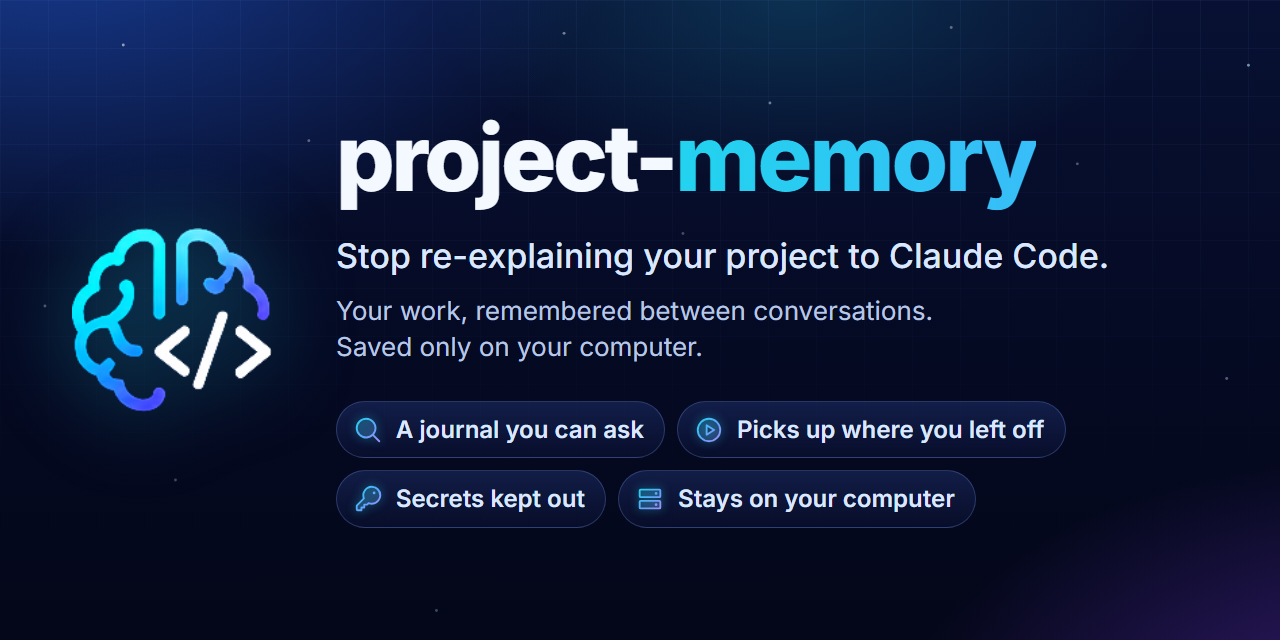
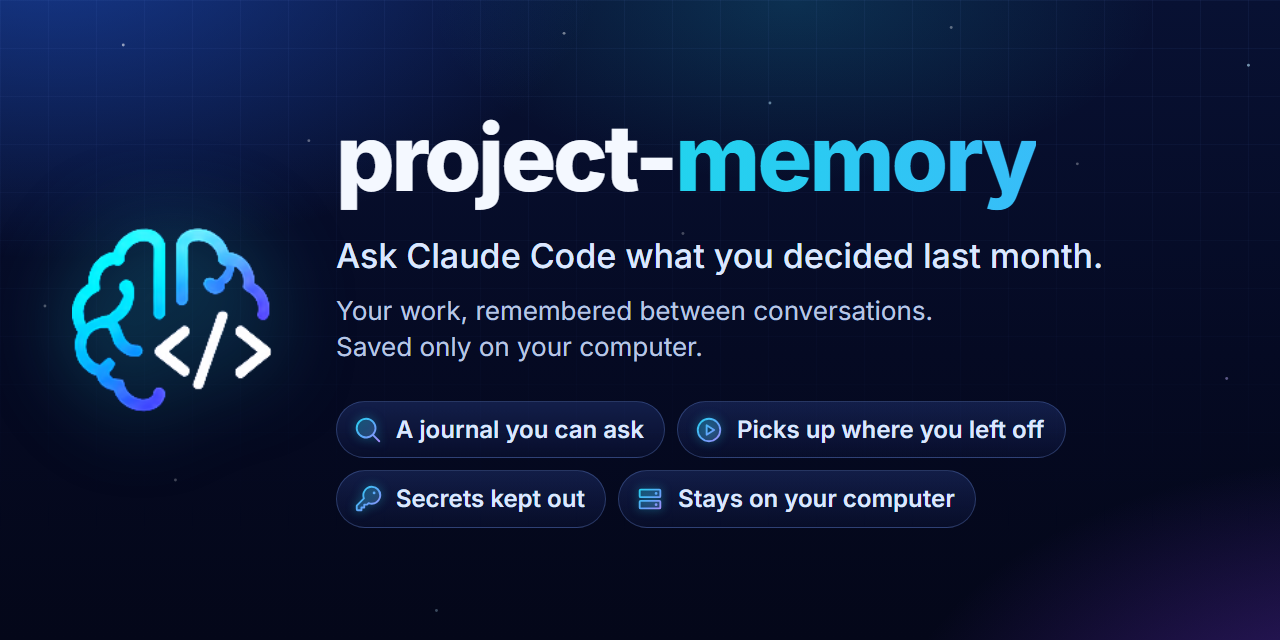
Project page: new headline "Ask Claude Code what you decided last month."
KIRE's pick (option 8 of 8). Also updates the page title, og:title,
og:image:alt and the social card image to the new line; bumps the
og:image URL to ?v=2 so share previews fetch the new card. Removes the
.nw rule, which only the old headline used. The closing line at the
bottom of the page keeps the old headline.

Changed region(s): [[0.25, 0.375, 0.875, 0.4375]]

diff --git a/index.html b/index.html
@@ -3,7 +3,7 @@
 <head>
 <meta charset="utf-8">
 <meta name="viewport" content="width=device-width, initial-scale=1">
-<title>project-memory: stop re-explaining your project to Claude Code</title>
+<title>project-memory: ask Claude Code what you decided last month</title>
 <meta name="description" content="A free plugin for Claude Code. After every reply it keeps a journal of your work and a note of where you stopped, so a new conversation starts where the last one ended. Secrets stay out, you choose what is saved, and what it saves stays on your computer.">
 <meta name="theme-color" content="#050A23">
 <meta name="color-scheme" content="dark">
@@ -11,13 +11,13 @@
 <link rel="canonical" href="https://zdraveski.github.io/project-memory/">
 <link rel="preload" href="fonts/inter.woff2" as="font" type="font/woff2" crossorigin>
 <meta property="og:type" content="website">
-<meta property="og:title" content="project-memory: stop re-explaining your project to Claude Code">
+<meta property="og:title" content="project-memory: ask Claude Code what you decided last month">
 <meta property="og:description" content="Your work, remembered between conversations. Saved only on your computer. A journal you can ask, a note of where you stopped, old versions of your notes, secrets kept out. Free, no account.">
 <meta property="og:url" content="https://zdraveski.github.io/project-memory/">
-<meta property="og:image" content="https://zdraveski.github.io/project-memory/social-card.png">
+<meta property="og:image" content="https://zdraveski.github.io/project-memory/social-card.png?v=2">
 <meta property="og:image:width" content="1280">
 <meta property="og:image:height" content="640">
-<meta property="og:image:alt" content="project-memory, with a brain logo: 'Stop re-explaining your project to Claude Code. Your work, remembered between conversations. Saved only on your computer.' Below it: 'A journal you can ask', 'Picks up where you left off', 'Secrets kept out' and 'Stays on your computer'.">
+<meta property="og:image:alt" content="project-memory, with a brain logo: 'Ask Claude Code what you decided last month. Your work, remembered between conversations. Saved only on your computer.' Below it: 'A journal you can ask', 'Picks up where you left off', 'Secrets kept out' and 'Stays on your computer'.">
 <meta name="twitter:card" content="summary_large_image">
 <script type="application/ld+json">
 {
@@ -170,7 +170,6 @@
   p { text-wrap: pretty; }
   .hero { display: flex; flex-direction: column; align-items: center; text-align: center; padding-top: 3.25rem; }
   h1 { font-size: clamp(2.3rem, 6vw, 5.25rem); line-height: 1; letter-spacing: -0.04em; max-width: 13em; margin: 0 auto 1.2rem; }
-  .nw { white-space: nowrap; }
   .tagline { font-size: 1.4rem; line-height: 1.45; font-weight: 600; color: var(--ink); max-width: 34rem; margin: 0 auto 0.5rem; }
   .lede { font-size: 1.1rem; line-height: 1.6; color: var(--body); max-width: 38rem; margin: 0 auto 1.75rem; }
   .actions { display: flex; flex-wrap: wrap; gap: 0.8rem; }
@@ -623,7 +622,7 @@
     <div class="wrap">
       <div class="hero">
         <span class="logo-orbit" aria-hidden="true"><img src="brain.png" alt="" width="148" height="136"></span>
-        <h1>Stop <span class="nw">re-explaining</span> your project <span class="grad">to Claude Code.</span></h1>
+        <h1>Ask Claude Code <span class="grad">what you decided last month.</span></h1>
         <p class="tagline">Your work, remembered between conversations. Saved only on your computer.</p>
         <p class="lede">A free plugin for Claude Code. After every reply it saves a journal of your work and a note of where you stopped.</p>
         <div class="actions">
